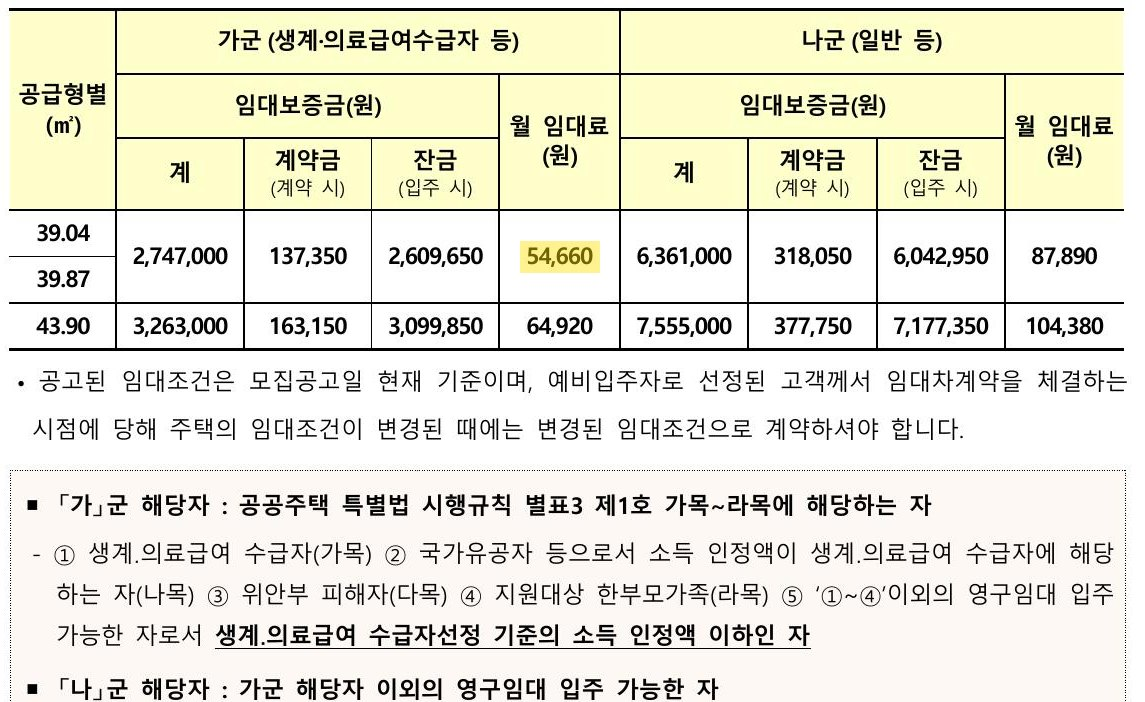
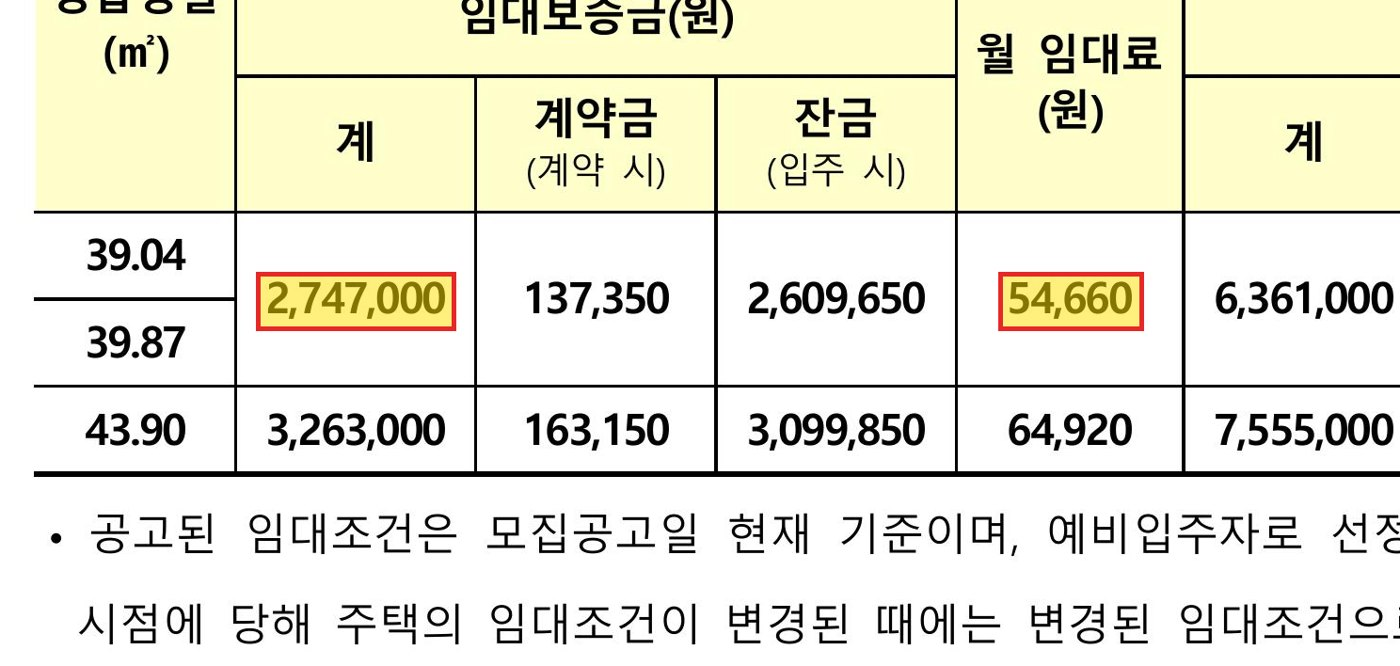
공고문 형광펜 컷 확대(금액 줄 가운데·빨간 테두리·2배 해상도) · 증거 카드 키움 · 위성사진 수집·사이트 대표 사진 대체 (사용자 결정 2026-11-13)
Claude-Session: https://claude.ai/code/session_01BX5Lyfw1Hj3UPpyFh8mqbq

Changed region(s): [[0.0, 0.0, 1.0, 1.0]]

diff --git a/tools/notice_shots.py b/tools/notice_shots.py
@@ -95,17 +95,38 @@ def shot(pdf, key, kind, label, pattern, marks, folder):
     if not hit:
         return None
     p, y, lines, (W, H) = hit
-    top = max(0.0, y - H * (0.14 if kind == "mark" else 0.015))
-    bot = min(H, top + H * WIN)
-    if bot - top < H * WIN:          # 쪽 끝이면 위로 올림
-        top = max(0.0, bot - H * WIN)
-    # 좌우는 글자가 있는 범위만 (여백 줄이기)
-    xs = [(x0, x1) for y0, y1, x0, x1, _ in lines if y0 >= top and y1 <= bot]
-    left = max(0.0, min((a for a, _ in xs), default=0) - 8)
-    right = min(W, max((b for _, b in xs), default=W) + 8)
+    if kind == "mark":
+        # 2026-11-13 사용자 "형광펜 칠한 금액표가 하나도 안 보임": 형광펜 줄을 가운데 두고 좁게 확대 —
+        # 릴스 증거 카드 칸(가로:세로 ≈ 2.1:1)에 맞춰 쪽 너비의 45~60%만 잘라 글자가 2배 넘게 커지게.
+        ms = [norm(m) for m in marks if norm(m)]
+        hl = [(x0, x1, y0, y1) for y0, y1, x0, x1, tx in lines if any(m in norm(tx) for m in ms)]
+        hl = [h for h in hl if abs(h[2] - y) < H * 0.08] or hl
+        x0 = min(h[0] for h in hl); x1 = max(h[1] for h in hl)
+        # 같은 높이의 줄(표의 같은 행: 주택형·계층 이름)까지 넣어 무슨 숫자인지 보이게
+        row = [(a, b) for yy0, yy1, a, b, _ in lines if abs(yy0 - y) < 3]
+        if row:
+            x0 = min(x0, min(a for a, _ in row)); x1 = max(x1, max(b for _, b in row))
+        cw = min(W, max(x1 - x0 + 30, W * 0.45))
+        if cw > W * 0.6:     # 행이 너무 넓으면 형광펜 쪽 60%만
+            cw = W * 0.6
+            cx = (min(h[0] for h in hl) + max(h[1] for h in hl)) / 2
+        else:
+            cx = (x0 + x1) / 2
+        left = min(max(0.0, cx - cw / 2), W - cw); right = left + cw
+        ch = cw / 2.1
+        top = min(max(0.0, y - ch * 0.42), H - ch); bot = top + ch
+    else:
+        top = max(0.0, y - H * 0.015)
+        bot = min(H, top + H * WIN)
+        if bot - top < H * WIN:          # 쪽 끝이면 위로 올림
+            top = max(0.0, bot - H * WIN)
+        # 좌우는 글자가 있는 범위만 (여백 줄이기)
+        xs = [(x0, x1) for y0, y1, x0, x1, _ in lines if y0 >= top and y1 <= bot]
+        left = max(0.0, min((a for a, _ in xs), default=0) - 8)
+        right = min(W, max((b for _, b in xs), default=W) + 8)
     from PIL import Image, ImageDraw
     with tempfile.TemporaryDirectory() as td:
-        subprocess.run(["pdftoppm", "-r", str(DPI), "-f", str(p), "-l", str(p), "-jpeg", str(pdf), f"{td}/p"],
+        subprocess.run(["pdftoppm", "-r", str(DPI * 2 if kind == "mark" else DPI), "-f", str(p), "-l", str(p), "-jpeg", str(pdf), f"{td}/p"],
                        capture_output=True, timeout=300)
         fs = sorted(Path(td).glob("p*.jpg"))
         if not fs:
@@ -121,8 +142,10 @@ def shot(pdf, key, kind, label, pattern, marks, folder):
             if y0 < top or y1 > bot:
                 continue
             if any(norm(m_) and norm(m_) in norm(tx) for m_ in marks):
-                d.rectangle([int((x0 - left) * k) - 6, int((y0 - top) * k) - 4,
-                             int((x1 - left) * k) + 6, int((y1 - top) * k) + 4], fill=(255, 226, 0, 110))
+                box = [int((x0 - left) * k) - 6, int((y0 - top) * k) - 4, int((x1 - left) * k) + 6, int((y1 - top) * k) + 4]
+                d.rectangle(box, fill=(255, 226, 0, 130))
+                if kind == "mark":   # 확대 컷은 빨간 테두리까지 — 한눈에 보이게
+                    d.rectangle([box[0] - 4, box[1] - 4, box[2] + 4, box[3] + 4], outline=(230, 40, 40, 255), width=max(3, int(k * 1.2)))
                 marked.append(tx[:40])
         crop = Image.alpha_composite(crop.convert("RGBA"), ov).convert("RGB")
     crop.thumbnail((1400, 1400))

diff --git a/tools/collect.py b/tools/collect.py
@@ -373,6 +373,22 @@ def need_site(idx, hp):
     return usable(idx) == 0 and a.get("date") != today() and a.get("tries", 1) < 3
 
 
+def add_satellite(r, idx):
+    """'청약조사' AJ열 위성사진(시트 스크립트 prepareSatellite가 네이버 위성 지도로 받아 둔 photos/sat/…) → index에 'aerial'.
+    2026-11-13 사용자 결정 "최대한 건물 실사": 이미 지어진 임대 단지처럼 홍보 사진이 없는 곳의 실제 모습."""
+    v = (r.get("위성사진") or "").strip()
+    if not v.startswith("photos/") or not (ROOT / v).exists():
+        return 0
+    if any(im.get("file") == v for im in idx["images"]):
+        return 0
+    from PIL import Image
+    w, h = Image.open(ROOT / v).size
+    idx["images"].append({"cat": "aerial", "kind": "위성사진", "label": "위성사진", "file": v, "src": "NAVER 위성 지도",
+                          "w": w, "h": h, "photo": True, "full": True, "ok": True, "checked": True, "from": "satellite",
+                          "credit": "위성사진 © NAVER Corp."})
+    return 1
+
+
 def main():
     ap = argparse.ArgumentParser()
     ap.add_argument("--only", nargs="*", type=int, help="'청약조사' 행 번호만")
@@ -438,6 +454,8 @@ def main():
             if not skip and hp and not lh_url and need_site(idx, hp) and sites < a.max_sites:
                 note.append("홈페이지 " + str(auto_site(key, hp, idx)) + "장")
                 sites += 1
+        if add_satellite(r, idx):
+            note.append("위성 1")
         n_sheet = add_sheet_files(r, key, idx)
         n_pam = add_pamphlet(key, idx)
         if n_sheet:

diff --git a/site/build.py b/site/build.py
@@ -1108,6 +1108,11 @@ def site_assets(n):
             # 위 조건(birdseye)에 안 걸렸음. ⓪ 검수를 통과(ok: true)한 사진만 — 단지 전경(overview) 먼저, 없으면 커뮤니티 투시도.
             okp = [im for im in ims if im.get("ok") is True and im.get("photo") and im["w"] >= 1000 and im["w"] >= im["h"] * 1.05]
             alt = next((im for c in ("overview", "community") for im in okp if im["cat"] == c), None)
+            if not alt:   # 2026-11-13 홍보 사진이 없으면 위성사진(이미 지어진 단지의 실제 모습)
+                sat = next((im for im in ims if im["cat"] == "aerial"), None)
+                if sat:
+                    n["photo"] = {"image": sat["file"], "credit": sat.get("credit", "위성사진 © NAVER Corp."),
+                                  "alt": f"{n['title']} 위성사진", "pos": "center 50%"}
             if alt:
                 word = "조감도" if alt["cat"] == "overview" else "투시도"
                 n["photo"] = {"image": alt["file"], "credit": f"이미지: {owner if '홈페이지' in owner else owner + ' 분양 홈페이지'} {word} · 실제와 다를 수 있음",

diff --git a/reel.py b/reel.py
@@ -715,7 +715,7 @@ html,body{word-break:keep-all;width:1080px;height:1920px;overflow:hidden;backgro
  transform:rotateX(26deg);transform-origin:center bottom;
  text-shadow:0 3px 0 #d9dde3,0 6px 0 #c3c8cf,0 9px 0 #aeb4bd,0 12px 0 #99a0aa,0 22px 26px rgba(0,0,0,.55)}
 .story .pf{top:330px;left:60px;right:60px}
-.story .pfimg{height:400px}
+.story .pfimg{height:470px}
 .sdisc{position:absolute;left:0;right:0;top:1420px;text-align:center;font-size:26px;color:rgba(255,255,255,.75)}
 .story-mode .bar{display:none}
 .story-mode .brand{font-size:30px}
